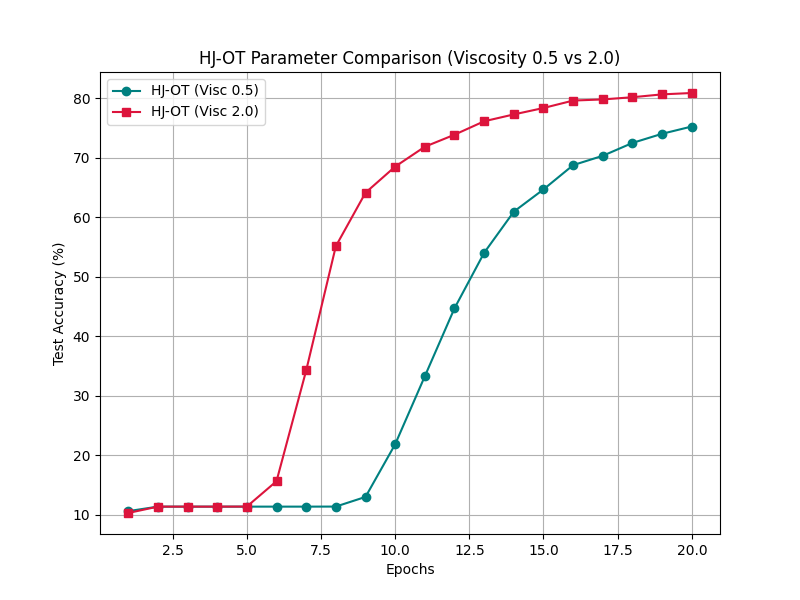
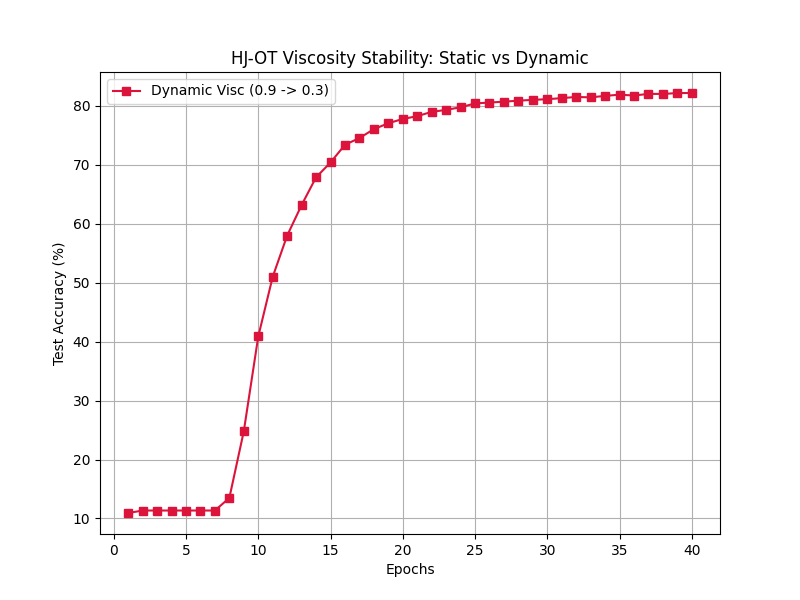
test(mnist): add viscosity and mass comparison runs to HJ-OT MNIST example

diff --git a/examples/mnist_navier_stokes_hj_ot.py b/examples/mnist_navier_stokes_hj_ot.py
@@ -140,35 +140,39 @@ def train_and_eval(optimizer, name, use_navier_stokes=True, max_epochs=2):
     return accuracies
 
 def main():
-    max_epochs = 20
+    max_epochs = 40
     
-    # 1. HJ-OT with Low Viscosity (0.2)
-    hj_ot_low_visc = hj_ot_optimizer(
-        learning_rate=1e-3,
-        viscosity=0.2,
-        transport_cost=1e-4,
-        dt=1.0
-    )
-    low_visc_accs = train_and_eval(hj_ot_low_visc, "HJ-OT (Visc 0.2)", use_navier_stokes=True, max_epochs=max_epochs)
+    # 1. HJ-OT with Static Viscosity (0.9)
+    # hj_ot_static = hj_ot_optimizer(
+    #     learning_rate=1e-3,
+    #     viscosity=0.9,
+    #     transport_cost=1e-5,
+    #     dt=1.0,
+    #     mass=1.5
+    # )
+    # static_accs = train_and_eval(hj_ot_static, "HJ-OT (Static 0.9)", use_navier_stokes=True, max_epochs=max_epochs)
     
-    # 2. HJ-OT with High Viscosity (0.5)
-    hj_ot_high_visc = hj_ot_optimizer(
+    # 2. HJ-OT with Dynamic Viscosity (0.9 -> 0.3)
+    hj_ot_dynamic = hj_ot_optimizer(
         learning_rate=1e-3,
-        viscosity=0.5,
-        transport_cost=1e-4,
-        dt=1.0
+        viscosity=0.9,
+        viscosity_decay=0.4,
+        viscosity_min=0.3,
+        transport_cost=1e-5,
+        dt=1.0,
+        mass=1.5
     )
-    high_visc_accs = train_and_eval(hj_ot_high_visc, "HJ-OT (Visc 2.0)", use_navier_stokes=True, max_epochs=max_epochs)
+    dynamic_accs = train_and_eval(hj_ot_dynamic, "HJ-OT (Dynamic 0.9->0.3)", use_navier_stokes=True, max_epochs=max_epochs)
     
     # Plotting
     epochs = range(1, max_epochs + 1)
     
     plt.figure(figsize=(8, 6))
-    plt.plot(epochs, low_visc_accs, 'o-', label='HJ-OT (Visc 0.5)', color='teal')
-    plt.plot(epochs, high_visc_accs, 's-', label='HJ-OT (Visc 2.0)', color='crimson')
+    # plt.plot(epochs, static_accs, 'o-', label='Static Visc (0.9)', color='teal')
+    plt.plot(epochs, dynamic_accs, 's-', label='Dynamic Visc (0.9 -> 0.3)', color='crimson')
     plt.xlabel('Epochs')
     plt.ylabel('Test Accuracy (%)')
-    plt.title('HJ-OT Parameter Comparison (Viscosity 0.5 vs 2.0)')
+    plt.title('HJ-OT Viscosity Stability: Static vs Dynamic')
     plt.legend()
     plt.grid(True)
     
